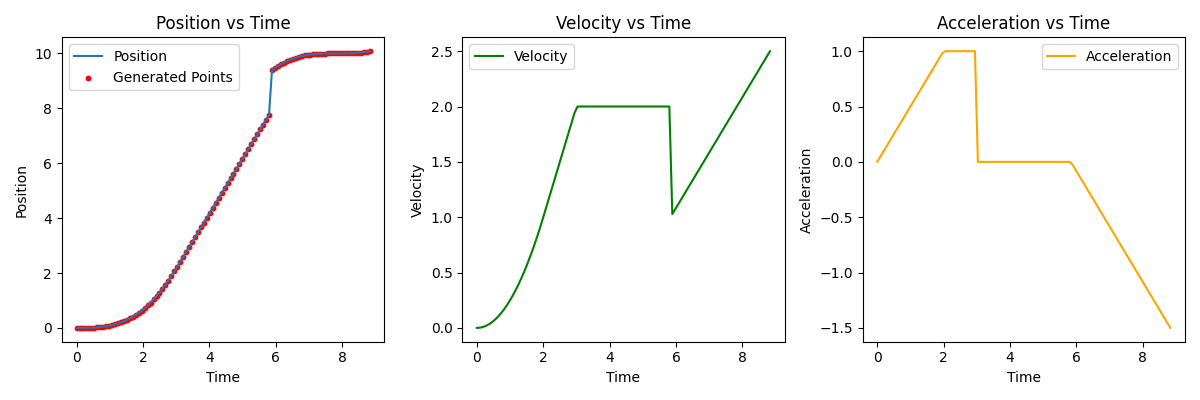
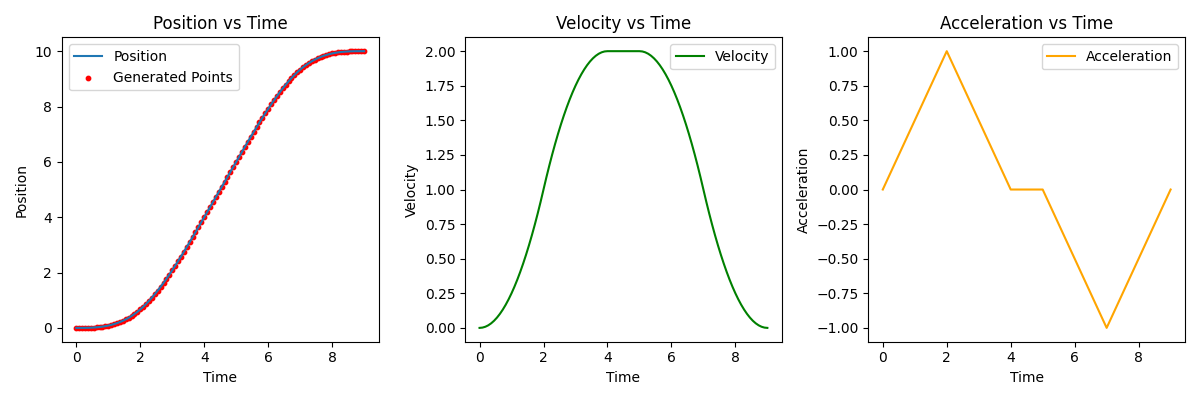
debug

diff --git a/experiments/s_curve_time_scalings/simple_linear_motion.py b/experiments/s_curve_time_scalings/simple_linear_motion.py
@@ -2,6 +2,8 @@ import os
 import numpy as np
 import matplotlib.pyplot as plt
 
+from utils.misc_utils import set_seed
+
 def s_curve_time_scalings(start_pos, end_pos, max_vel, max_acc, jerk):
     """
     Compute the S-curve time scaling parameters for the motion.
@@ -21,20 +23,23 @@ def s_curve_time_scalings(start_pos, end_pos, max_vel, max_acc, jerk):
     
     # Time to reach max acceleration with given jerk
     t_jerk = max_acc / jerk    
-    # Distance covered during one jerk phase
-    d_jerk = (1/6) * jerk * (t_jerk ** 3)
+    # Distance covered during one edge jerk phase
+    d_jerk_edge = (1/6) * jerk * (t_jerk ** 3)
     # Velocity at the end of the jerk phase
     v_jerk = jerk * (t_jerk ** 2) / 2
 
     # Time to reach max velocity with maximum acceleration
-    t_acc = (max_vel - v_jerk) / max_acc
+    t_acc = (max_vel - 2 * v_jerk) / max_acc
     # Distance covered during one constant acceleration phase
     d_acc = v_jerk * t_acc + 0.5 * max_acc * t_acc**2
     # Velocity at the end of the acceleration phase
     v_acc = v_jerk + max_acc * t_acc
 
+    # Distance covered during one middle jerk phase
+    d_jerk_middle = v_acc * t_jerk + 0.5 * max_acc * t_jerk**2 - (1/6) * jerk * (t_jerk ** 3)
+
     # Total distance covered during acceleration and deceleration
-    d_total_jerk = 4 * d_jerk
+    d_total_jerk = 2 * (d_jerk_edge + d_jerk_middle)
     d_total_acc = 2 * d_acc
 
     if total_distance < d_total_jerk:
@@ -51,8 +56,14 @@ def s_curve_time_scalings(start_pos, end_pos, max_vel, max_acc, jerk):
         max_vel = (total_distance - d_total_jerk) / (2 * t_jerk)
         t_acc = 0  # No constant acceleration phase
         t_constant_vel = 0
+    elif max_vel * max_vel < 4 * max_vel * jerk: 
+        # Case 3: Low Velocity - Cannot reach maximum acceleration
+        # Adjust the velocity profile to accommodate the low maximum velocity
+        t_acc = 0  # No constant acceleration phase
+        t_constant_vel = 0
+        d_constant_vel = total_distance - d_total_jerk
     else:
-        # Case 3: Full S-curve Profile - Complete Motion Profile
+        # Case 4: Full S-curve Profile - Complete Motion Profile
         d_constant_vel = total_distance - d_total_jerk - d_total_acc
         t_constant_vel = d_constant_vel / max_vel
 
@@ -66,7 +77,8 @@ def s_curve_time_scalings(start_pos, end_pos, max_vel, max_acc, jerk):
         't_acc': t_acc,
         't_constant_vel': t_constant_vel,
         't_total': t_total,
-        'd_jerk': d_jerk,
+        'd_jerk_edge': d_jerk_edge,
+        'd_jerk_middle': d_jerk_middle,
         'd_acc': d_acc,
         'd_constant_vel': d_constant_vel,
         'v_jerk': v_jerk,
@@ -96,7 +108,8 @@ def generate_s_curve_trajectory_points(params, num_points=100):
     t_jerk = params['t_jerk']
     t_acc = params['t_acc']
     t_constant_vel = params['t_constant_vel']
-    d_jerk = params['d_jerk']
+    d_jerk_edge = params['d_jerk_edge']
+    d_jerk_middle = params['d_jerk_middle']
     d_acc = params['d_acc']
     d_constant_vel = params['d_constant_vel']
     v_jerk = params['v_jerk']
@@ -120,32 +133,32 @@ def generate_s_curve_trajectory_points(params, num_points=100):
             t1 = t - t_jerk
             acc = max_acc
             vel = v_jerk + max_acc * t1
-            pos = start_pos + direction * (d_jerk + v_jerk * t1 + 0.5 * max_acc * t1**2)
+            pos = start_pos + direction * (d_jerk_edge + v_jerk * t1 + 0.5 * max_acc * t1**2)
         elif t < 2 * t_jerk + t_acc:  # Jerk-down phase
             t1 = t - t_jerk - t_acc
             acc = max_acc - jerk * t1
             vel = v_acc + max_acc * t1 - 0.5 * jerk * t1**2
-            pos = start_pos + direction * (d_jerk + d_acc + v_acc * t1 + 0.5 * max_acc * t1**2 - (1/6) * jerk * t1**3)
+            pos = start_pos + direction * (d_jerk_edge + d_acc + v_acc * t1 + 0.5 * max_acc * t1**2 - (1/6) * jerk * t1**3)
         elif t < 2 * t_jerk + t_acc + t_constant_vel:  # Constant velocity phase
             t1 = t - 2 * t_jerk - t_acc
             acc = 0
             vel = max_vel
-            pos = start_pos + direction * (2 * d_jerk + d_acc + max_vel * t1)
+            pos = start_pos + direction * (d_jerk_edge + d_acc + d_jerk_middle + max_vel * t1)
         elif t < 3 * t_jerk + t_acc + t_constant_vel:  # Negative Jerk phase
             t1 = t - 2 * t_jerk - t_acc - t_constant_vel
             acc = -jerk * t1
-            vel = max_vel - jerk * t1
-            pos = start_pos + direction * (2 * d_jerk + d_acc + d_constant_vel + max_vel * t1 - 0.5 * jerk * t1**2 - (1/6) * jerk * t1**3)
+            vel = max_vel - 0.5 * jerk * t1**2
+            pos = start_pos + direction * (d_jerk_edge + d_jerk_middle + d_acc + d_constant_vel + max_vel * t1 - (1/6) * jerk * t1**3)
         elif t < 3 * t_jerk + 2 * t_acc + t_constant_vel:  # Constant Deceleration phase
             t1 = t - 3 * t_jerk - t_acc - t_constant_vel
             acc = -max_acc
             vel = v_acc - max_acc * t1
-            pos = start_pos + direction * (3 * d_jerk + d_acc + d_constant_vel + v_acc * t1 - 0.5 * max_acc * t1**2)
+            pos = start_pos + direction * (d_jerk_edge + 2 * d_jerk_middle + d_acc + d_constant_vel + v_acc * t1 - 0.5 * max_acc * t1**2)
         elif t < 4 * t_jerk + 2 * t_acc + t_constant_vel:  # Negative Jerk-down phase
             t1 = t - 3 * t_jerk - 2 * t_acc - t_constant_vel
             acc = -max_acc + jerk * t1
             vel = v_jerk - max_acc * t1 + 0.5 * jerk * t1**2
-            pos = start_pos + direction * (3 * d_jerk + 2 * d_acc + d_constant_vel + v_jerk * t1 - 0.5 * max_acc * t1**2 + (1/6) * jerk * t1**3) 
+            pos = start_pos + direction * (d_jerk_edge + 2 * d_jerk_middle + 2 * d_acc + d_constant_vel + v_jerk * t1 - 0.5 * max_acc * t1**2 + (1/6) * jerk * t1**3) 
         else:  # Final phase
             acc = 0
             vel = 0
@@ -162,12 +175,14 @@ def generate_s_curve_trajectory_points(params, num_points=100):
         'acceleration': np.array(accelerations)
     }
 
-def plot_trajectory(trajectory_data):
+def plot_trajectory(trajectory_data, save_path=None):
+
     """
     Plot the position, velocity, and acceleration of the trajectory.
     
     Args:
         trajectory_data (dict): Contains arrays of time, position, velocity, and acceleration.
+        save_path (str, optional): Path to save the plot image. If None, the plot is not saved.
     """
     time_steps = trajectory_data['time']
     positions = trajectory_data['position']
@@ -201,9 +216,17 @@ def plot_trajectory(trajectory_data):
     plt.legend()
     
     plt.tight_layout()
+    
+    # Save the plot if a save_path is provided
+    if save_path:
+        plt.savefig(save_path)
+        print(f"Plot saved to {save_path}")
+    
     plt.show()
 
 if __name__ == '__main__':
+    set_seed()
+    log_dir = os.path.dirname(os.path.abspath(__file__))  # Get the directory of the current script
     # Setting parameters
     start_pos = 0
     end_pos = 10
@@ -217,5 +240,7 @@ if __name__ == '__main__':
     # Generate trajectory points
     trajectory_data = generate_s_curve_trajectory_points(params)
 
-    # Plot the trajectory
-    plot_trajectory(trajectory_data)
+    # Plot the trajectory and save it
+    save_path = os.path.join(log_dir, "s_curve_trajectory.png")
+    plot_trajectory(trajectory_data, save_path=save_path)
+
